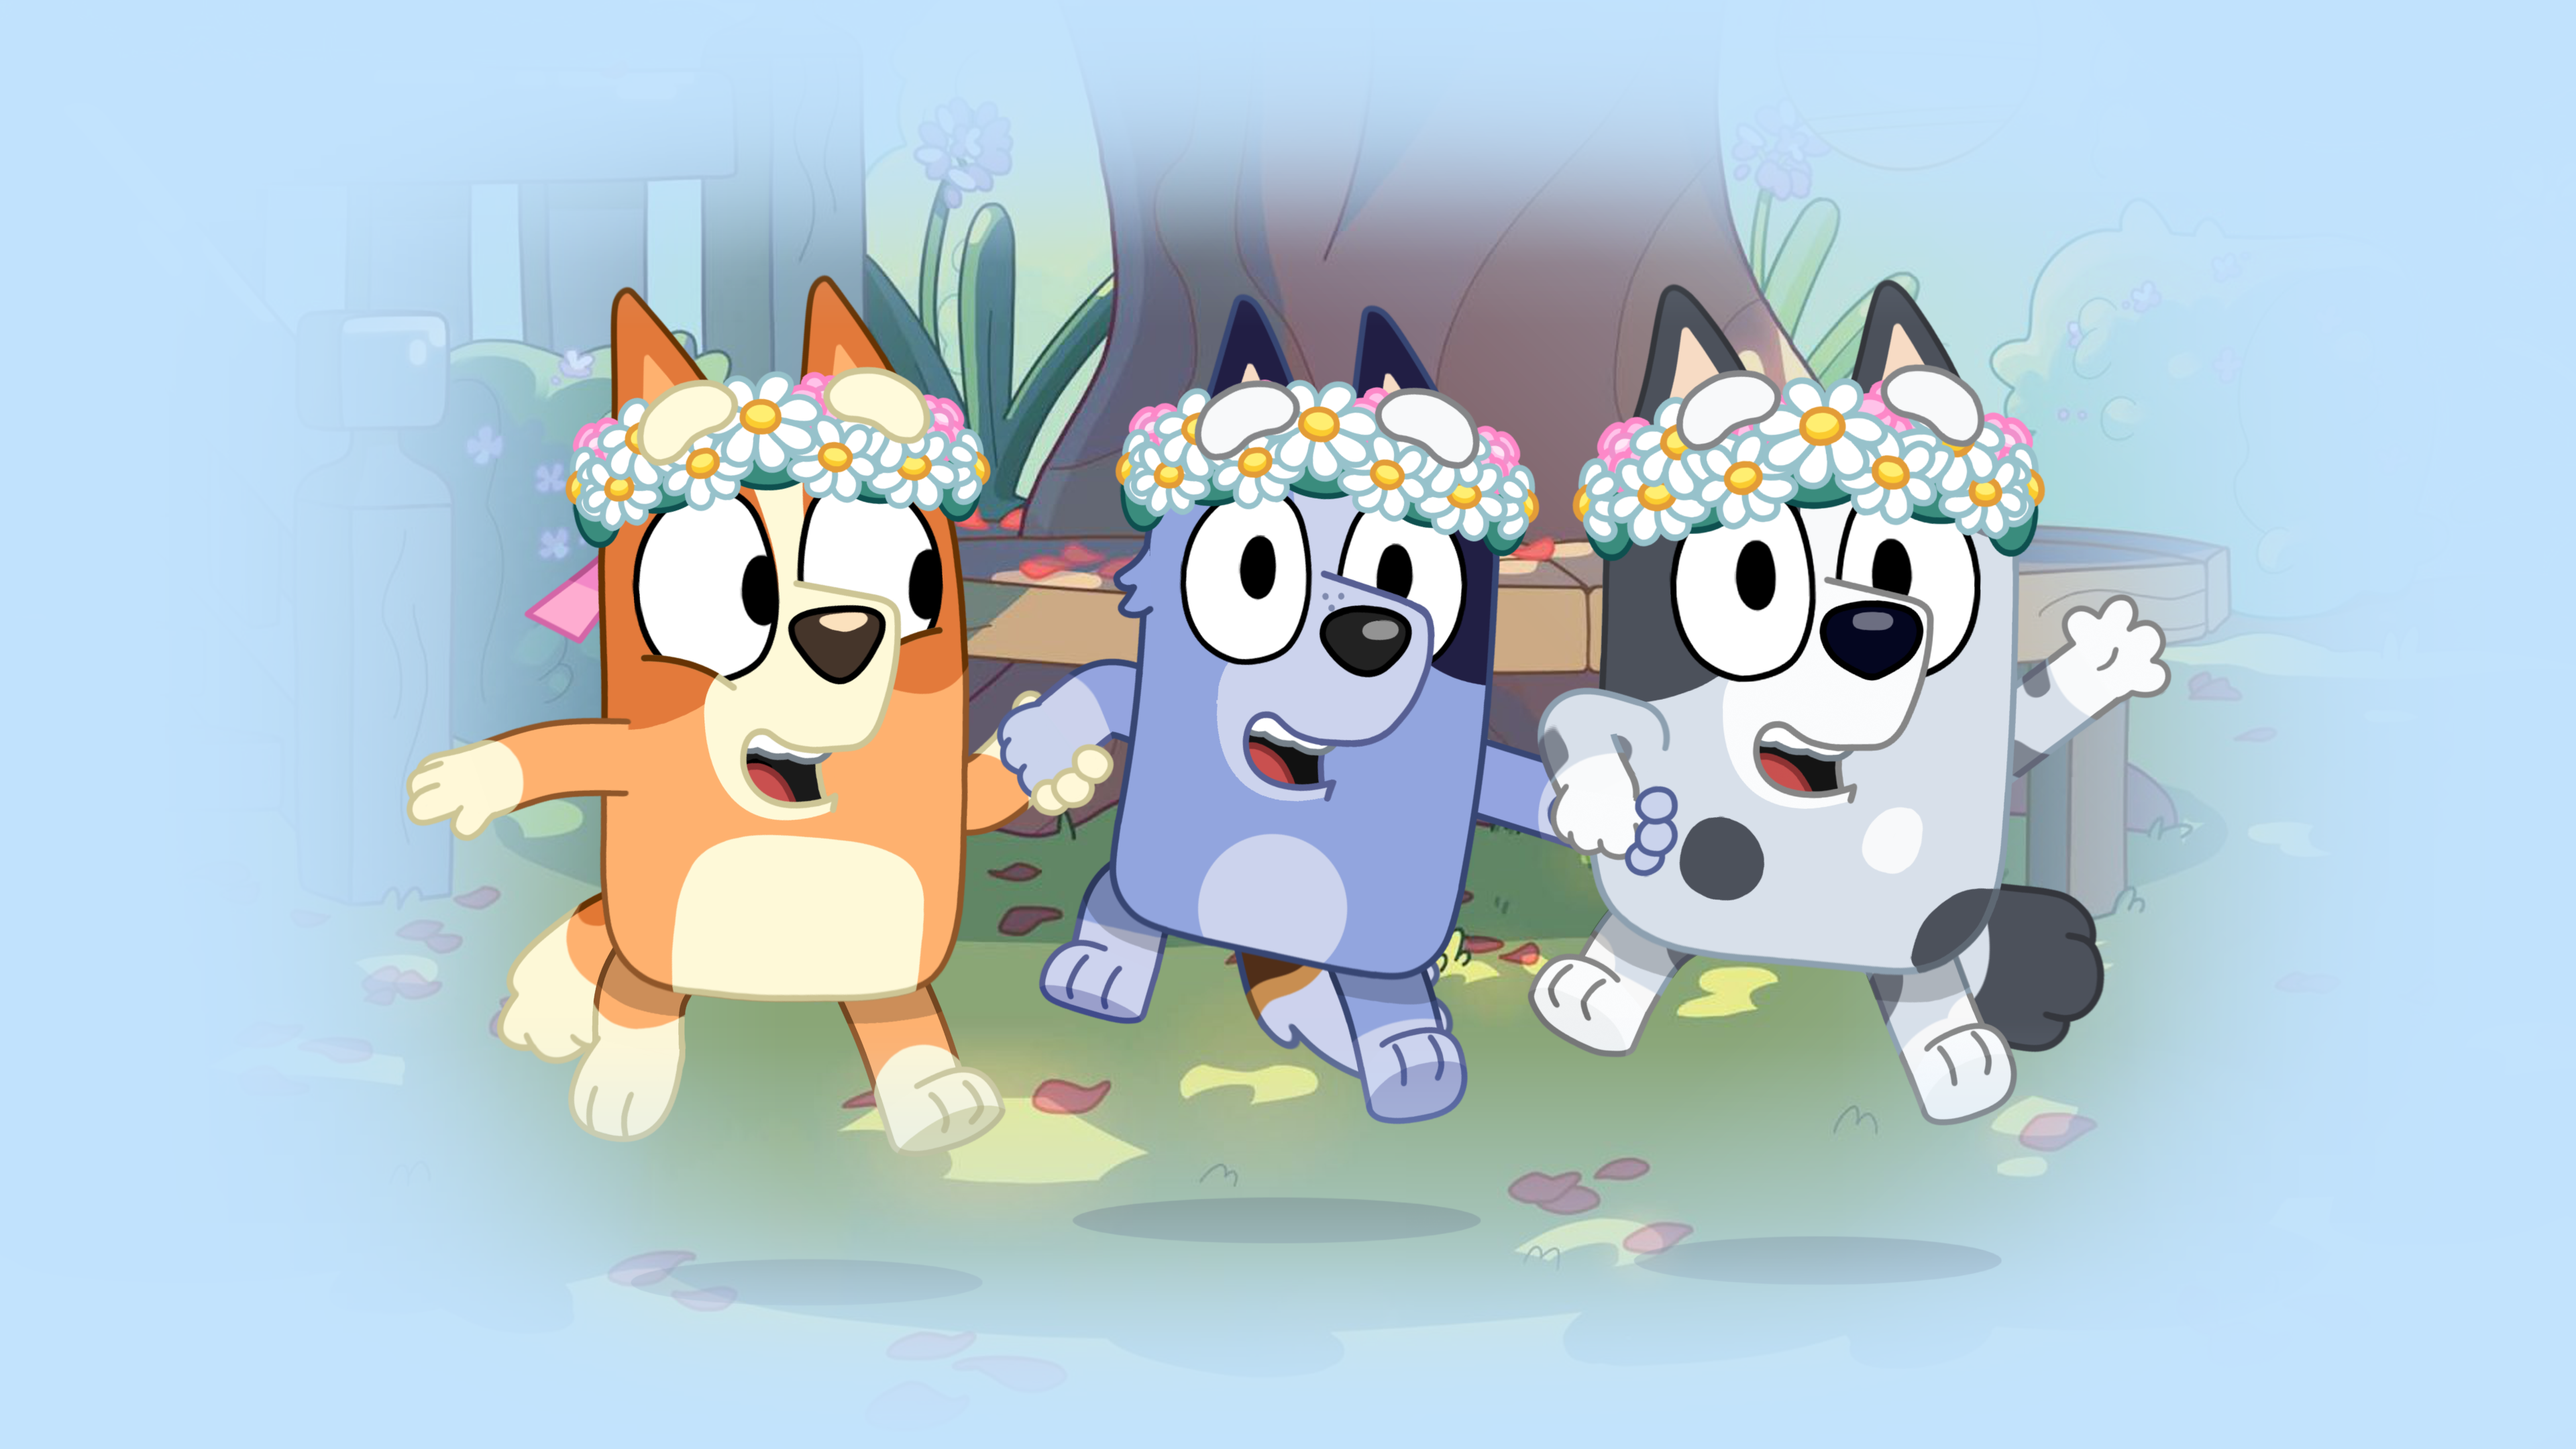
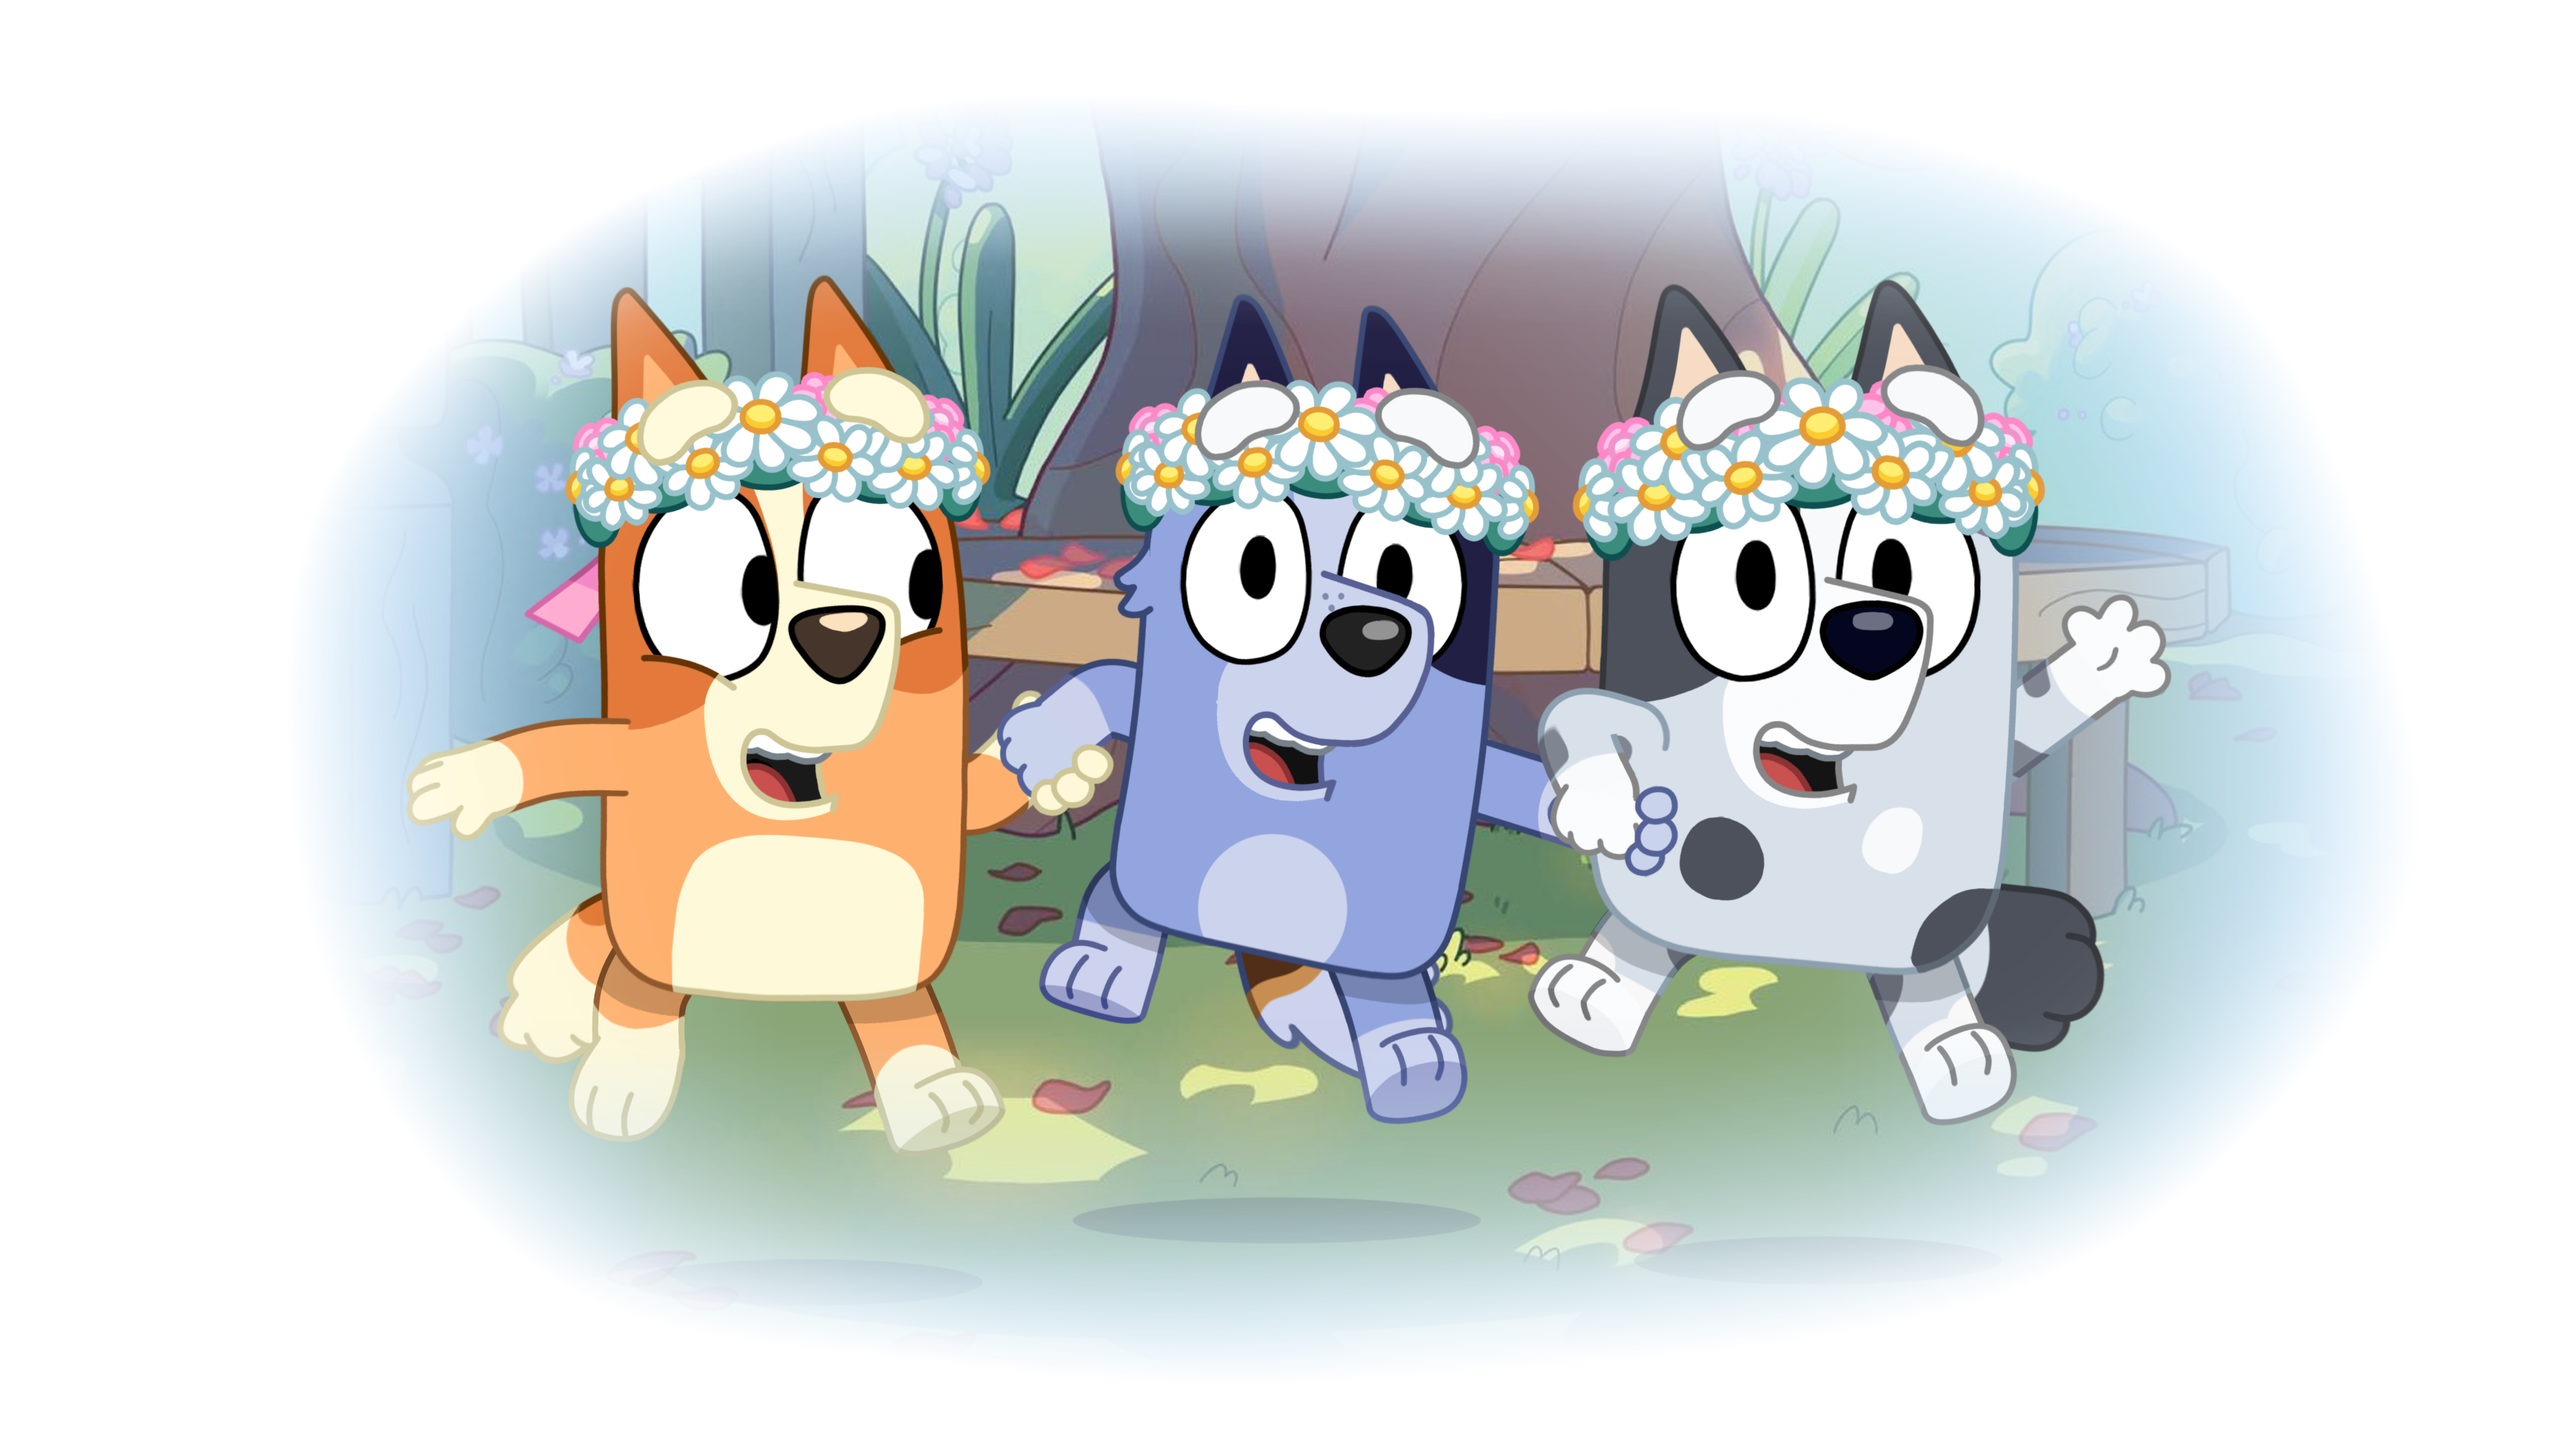
changed background

diff --git a/app/Views/components/navbar.php b/app/Views/components/navbar.php
@@ -1,4 +1,4 @@
-<body>
+<body class="uk-background-cover" data-src="<?= base_url('assets/images/newBG.png')?>" style="object-fit: fill;" uk-img>
 
   <nav class="navbar navbar-expand-lg bg-body-tertiary" >
 
